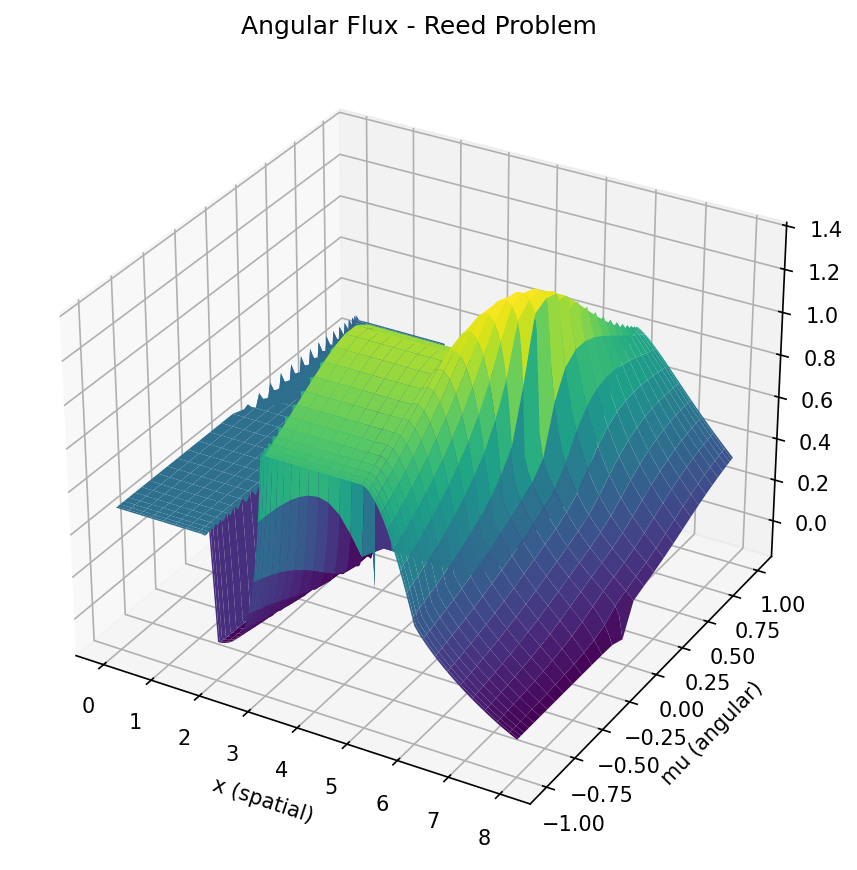
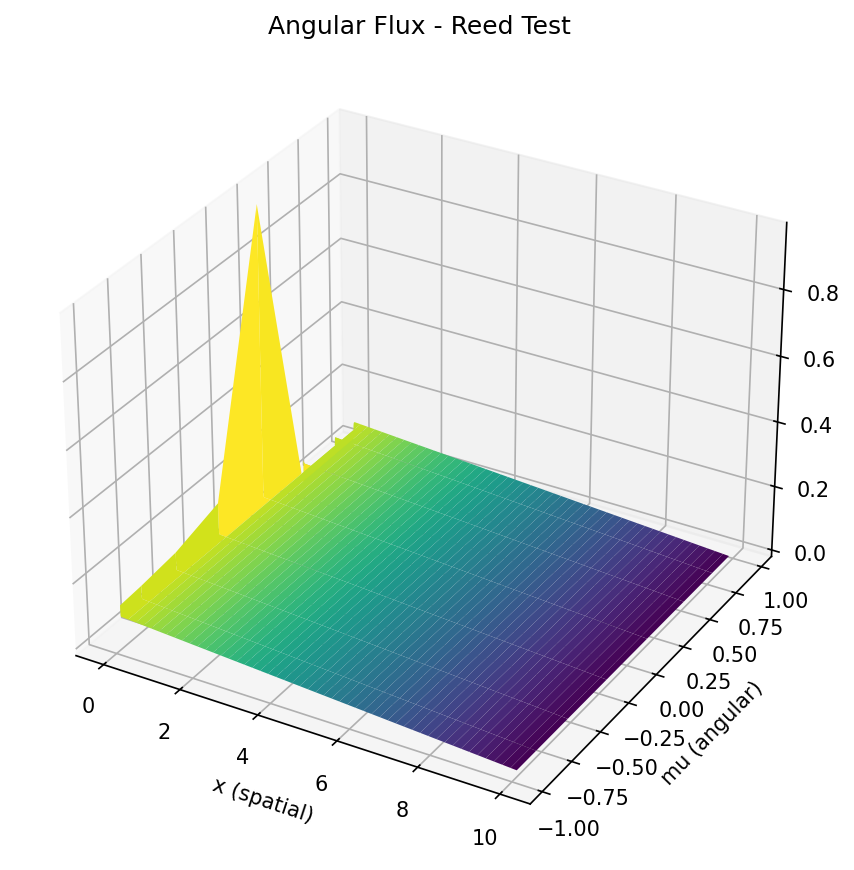
Refactor radiation transport scripts and update test parameters; remove obsolete images and add new test configurations

diff --git a/solve_radiation_anisotropic_figures.py b/solve_radiation_anisotropic_figures.py
@@ -1,0 +1,64 @@
+# %%
+import sys
+from source.parameters import ParameterHandler
+from source.mesh import Mesh
+from source.advection import assemble_matrix, assemble_rhs
+from source.discrete_ordinates import solve_source_iteration
+from source.utils import AngularQuadrature
+import numpy as np
+import scipy.sparse as sp
+from scipy.sparse.linalg import spsolve
+import matplotlib.pyplot as plt
+import pandas as pd
+from mpl_toolkits.mplot3d import Axes3D
+
+def main():
+    
+    params = ParameterHandler(f"test_params/grazing_sigma100_20K.toml")
+    params2 = ParameterHandler(f"test_params/grazing_sigma100_500.toml")
+
+    mesh = Mesh(params)
+    phi_output, psi_outputs, num_iters = solve_source_iteration(mesh, return_iter=True)
+    phi_output = phi_output / (2 * np.pi)
+    plt.plot(mesh.vertices, phi_output, label="20K")
+
+    mesh2 = Mesh(params2)
+    phi_output2, _, _ = solve_source_iteration(mesh2, return_iter=True)
+    phi_output2 = phi_output2 / (2 * np.pi)
+    plt.plot(mesh2.vertices, phi_output2, label="500")
+
+    plt.legend()
+    plt.show()
+
+    plt.savefig(f"radiation_iteration_grazing_sigma100_comparison.png", dpi=1500)
+
+    plt.close()
+
+    # print(psi_outputs.shape)
+    # plt.plot(mesh.vertices, psi_outputs[0])
+    # # plt.savefig(f"radiation_iteration_psi_{filename}.png")
+    # # plt.close()
+
+    # fig = plt.figure(figsize=(10, 7))
+    # ax = fig.add_subplot(111, projection='3d')
+
+    # quadrature = AngularQuadrature(mesh.params.number_of_directions)
+
+    # num_angles, num_vertices = psi_outputs.shape
+    # X, Y = np.meshgrid(mesh.vertices, quadrature.angles)
+
+    # ax.plot_surface(X, Y, psi_outputs, cmap='viridis', edgecolor='none')
+
+    # ax.set_xlabel('x (spatial)')
+    # ax.set_ylabel('mu (angular)')
+    # ax.set_zlabel('ψ (angular flux)')
+    # ax.set_title('Angular Flux - Reed\'s Problem')
+
+    # plt.savefig(f"radiation_iteration_{filename}_3d.png", dpi=150)
+    # plt.close()
+
+    # print("Number of iterations:", num_iters)
+
+if __name__ == "__main__":
+    main()
+# %%

diff --git a/supg_comparison_graphs.py b/supg_comparison_graphs.py
@@ -1,0 +1,36 @@
+import sys
+from source.parameters import ParameterHandler
+from source.mesh import Mesh
+from source.advection import assemble_stiffness_matrix, assemble_mass_matrix, assemble_matrix, assemble_rhs
+import numpy as np
+import scipy.sparse as sp
+from scipy.sparse.linalg import spsolve
+import matplotlib.pyplot as plt
+
+def main():
+    params = ParameterHandler("test_params/reed_problem.toml")
+
+    # generate mesh
+    mesh = Mesh(params)
+
+    mu = 1.0
+    M = assemble_matrix(mu, mesh, use_supg=False)
+    Q = assemble_rhs(mu, mesh, use_supg=False)
+    U = sp.linalg.spsolve(M, Q, use_supg=False)
+
+    M_supg = assemble_matrix(mu, mesh)
+    Q_supg  = assemble_rhs(mu, mesh)
+    U_supg = sp.linalg.spsolve(M, Q)
+
+    plt.plot(mesh.vertices, U, label="Standard Galerkin method")
+    plt.plot(mesh.vertices, U_supg, label="SUPG")
+    plt.legend()
+    # plt.plot(mesh.vertices, U_exact, label="exact")
+    # plt.legend()
+    plt.savefig("test_superconvergence_undershoot.png")
+
+    print("Test passed!")
+
+if __name__ == "__main__":
+    main() 
+

diff --git a/solve_radiation.py b/solve_radiation.py
@@ -13,7 +13,13 @@ import pandas as pd
 from mpl_toolkits.mplot3d import Axes3D
 
 def main():
-    params = ParameterHandler("test_params/anisotropic_test.toml")
+    if len(sys.argv) < 2: 
+        print("Usage: python3 solve_radiation.py test_params/<parameter_file>.toml")
+        sys.exit(1)
+
+    filename = sys.argv[1]
+
+    params = ParameterHandler(f"test_params/{filename}.toml")
     mesh = Mesh(params)
     
     
@@ -22,12 +28,16 @@ def main():
     phi_output = phi_output / (2 * np.pi)
 
     plt.plot(mesh.vertices, phi_output)
-    plt.savefig("radiation_iteration_phi_anisotropic_test.png")
+
+    plt.show()
+
+    plt.savefig(f"radiation_iteration_phi_{filename}.png", dpi=1500)
+
     plt.close()
 
     # print(psi_outputs.shape)
     # plt.plot(mesh.vertices, psi_outputs[0])
-    # plt.savefig("radiation_iteration_psi_anisotropic_test.png")
+    # plt.savefig(f"radiation_iteration_psi_{filename}.png")
     # plt.close()
 
     fig = plt.figure(figsize=(10, 7))
@@ -42,10 +52,10 @@ def main():
 
     ax.set_xlabel('x (spatial)')
     ax.set_ylabel('mu (angular)')
-    ax.set_zlabel('ψ')
-    ax.set_title('Angular Flux - Anisotropic Test')
+    ax.set_zlabel('ψ (angular flux)')
+    ax.set_title('Angular Flux - Reed\'s Problem')
 
-    plt.savefig("radiation_iteration_anisotropic_test_3d.png", dpi=150, bbox_inches='tight')
+    plt.savefig(f"radiation_iteration_{filename}_3d.png", dpi=150)
     plt.close()
 
     print("Number of iterations:", num_iters)

diff --git a/source/advection.py b/source/advection.py
@@ -2,7 +2,7 @@ from scipy.sparse import coo_matrix, csr_matrix
 from scipy.integrate import quad
 from .mesh import Mesh
 import numpy as np
-from .utils import phi1hat, phi0hat, dphi1hat, dphi0hat, gauss_points, gauss_weights, hat_fns, dhat_fns 
+from .utils import phi1hat, phi0hat, dphi1hat, dphi0hat, gauss_points, gauss_weights, hat_fns, dhat_fns, tau_fn
 
 # TODO: add connectivity array for higher-dimensional case
 # def generate_connectivity_array(mesh: Mesh):
@@ -11,9 +11,7 @@ from .utils import phi1hat, phi0hat, dphi1hat, dphi0hat, gauss_points, gauss_wei
 # Assemble the global matrix for the advection-diffusion problem 
 def assemble_matrix(mu: float, mesh: Mesh, boundary_condition: bool = True, use_supg: bool = True):
     
-    C = 1 / (2 * np.abs(mu)) * 1 / (np.maximum(1, mesh.sigma_t * mesh.h))
-    
-    tau =  C * mesh.h if use_supg else np.zeros(mesh.n_cells)
+    tau = tau_fn(mesh, mu) if use_supg else np.zeros(mesh.n_cells)
     
     mass_matrix = assemble_mass_matrix(mu, mesh)
 
@@ -34,8 +32,9 @@ def assemble_matrix(mu: float, mesh: Mesh, boundary_condition: bool = True, use_
             matrix[0, 0] += mu * hat_fns[0](0) + mu**2 * tau[0] * dhat_fns[0](0) * (1 / mesh.h[0])
             matrix[1, 0] += mu**2 * tau[0] * dhat_fns[1](0) * (1 / mesh.h[0])
         elif mu < 0:
-            matrix[-1, -1] += mu * hat_fns[1](1) + mu**2 * tau[-1] * dhat_fns[1](1) * (1 / mesh.h[-1])
-            matrix[-2, -1] += mu**2 * tau[-1] * dhat_fns[0](1) * (1 / mesh.h[-1])
+            matrix[-1, -1] -= mu * hat_fns[1](1) + mu**2 * tau[-1] * dhat_fns[1](1) * (1 / mesh.h[-1])
+            matrix[-2, -1] -= mu**2 * tau[-1] * dhat_fns[0](1) * (1 / mesh.h[-1])
+
 
 
     return matrix
@@ -114,9 +113,7 @@ def assemble_stiffness_matrix(mu: float, mesh: Mesh):
 def assemble_rhs(mu: float, inflow_value: float, mesh: Mesh, boundary_condition: bool = True, use_supg: bool = True):
     data = np.zeros((mesh.n_vertices))
 
-    C = 1 / (2 * np.abs(mu)) * 1 / (np.maximum(1, mesh.sigma_t * mesh.h))
-    
-    tau =  C * mesh.h if use_supg else np.zeros(mesh.n_cells)
+    tau = tau_fn(mesh, mu) if use_supg else np.zeros(mesh.n_cells)
     
     # Compute the q * v_h term
     for k in range(mesh.n_cells):
@@ -152,8 +149,9 @@ def assemble_rhs(mu: float, inflow_value: float, mesh: Mesh, boundary_condition:
             data[0] += mu * inflow_value * hat_fns[0](0) + mu**2 * tau[0] * dhat_fns[0](0) * inflow_value * (1 / mesh.h[0])
             data[1] += mu**2 * tau[0] * dhat_fns[1](0) * inflow_value * (1 / mesh.h[0])
         elif mu < 0:
-            data[-1] += mu * inflow_value * hat_fns[1](1) + mu**2 * tau[-1] * dhat_fns[1](1) * inflow_value * (1 / mesh.h[-1])
-            data[-2] += mu**2 * tau[-1] * dhat_fns[0](1) * inflow_value * (1 / mesh.h[-1])
+            data[-1] -= mu * inflow_value * hat_fns[1](1) + mu**2 * tau[-1] * dhat_fns[1](1) * inflow_value * (1 / mesh.h[-1])
+            data[-2] -= mu**2 * tau[-1] * dhat_fns[0](1) * inflow_value * (1 / mesh.h[-1])
+
 
     return data
 

diff --git a/source/discrete_ordinates.py b/source/discrete_ordinates.py
@@ -1,6 +1,6 @@
 import numpy as np
 from source.mesh import Mesh
-from .utils import phi1hat, phi0hat, dphi1hat, dphi0hat, gauss_points, gauss_weights, hat_fns, dhat_fns, AngularQuadrature
+from .utils import phi1hat, phi0hat, dphi1hat, dphi0hat, gauss_points, gauss_weights, hat_fns, dhat_fns, AngularQuadrature, tau_fn
 from scipy.sparse import csr_matrix
 import scipy.sparse as sp
 from .advection import assemble_matrix, assemble_rhs
@@ -16,9 +16,7 @@ def assemble_sigma_matrix(mu: float, mesh: Mesh):
     col = []
     data = []
 
-    C = 1 / (2 * np.abs(mu)) * (1 / (np.maximum(1, mesh.sigma_t * mesh.h)))
-    
-    tau =  C * mesh.h
+    tau = tau_fn(mesh, mu)
 
     # (sigma_s / 4pi) * u_h * v_h
     for k in range(mesh.n_cells):
@@ -118,9 +116,10 @@ def assemble_dsa_rhs(mesh: Mesh, r: np.array):
 
     return data
 
-def solve_source_iteration(mesh: Mesh, use_dsa: bool = True, return_iter: bool = False):
+def solve_source_iteration(mesh: Mesh, return_iter: bool = False):
     quadrature = AngularQuadrature(mesh.params.number_of_directions)
     mus = quadrature.angles
+    use_dsa = mesh.params.use_dsa
 
     psi_stars = []
     for i in range(len(mus)):

diff --git a/source/utils.py b/source/utils.py
@@ -1,5 +1,6 @@
 import numpy as np
 from scipy.special import roots_legendre
+from .mesh import Mesh
 
 # Basis functions and derivatives on unit interval
 def phi1hat(x):
@@ -23,6 +24,13 @@ gauss_weights = [1 / 2, 1 / 2]
 hat_fns = [phi0hat, phi1hat]
 dhat_fns = [dphi0hat, dphi1hat]
 
+def tau_fn(mesh: Mesh, mu: float):
+    if mesh.params.tau_ap:
+        C = 1 / (2 * np.abs(mu)) * (1 / (np.maximum(1, mesh.sigma_t * mesh.h)))
+        return C * mesh.h
+    else:
+        C = 1 / (2 * np.abs(mu)) 
+        return C * mesh.h
 
 class AngularQuadrature:
     def __init__(self, order: int):

diff --git a/source/parameters.py b/source/parameters.py
@@ -20,6 +20,7 @@ class ParameterHandler:
             self.tol = data.get("tol", 1e-8)
             self.iter_max = data.get("iter_max", 1000)
             self.use_dsa = data.get("use_dsa", True)
+            self.tau_ap = data.get("tau_ap", True)
             self.boundary_penalty = data.get("boundary_penalty", 1 / 4)
 
         self.verify()